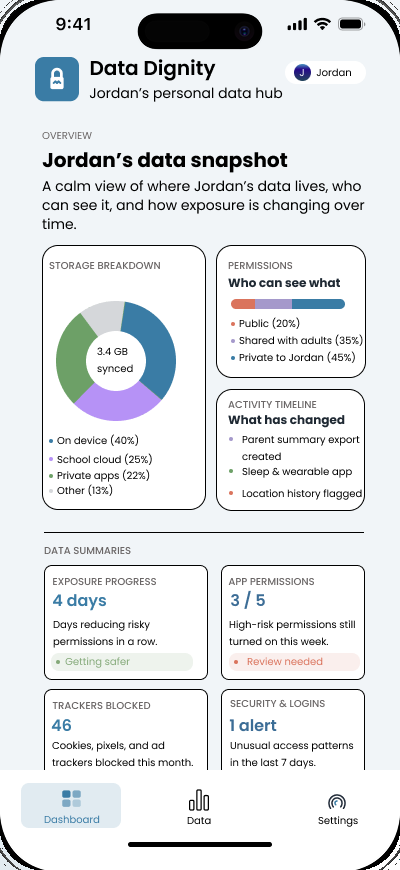
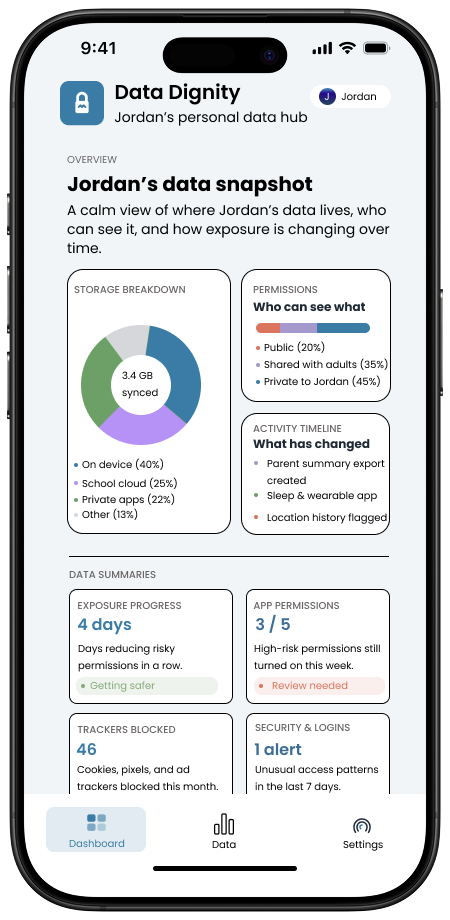
Revert "Tighten iPhone mockups and swap the Soak app-home frame."
This reverts commit 8bc4ba73c5c9cdd482dd8f3917aaf56f6dddfaf0.

diff --git a/docs/styles.css b/docs/styles.css
@@ -687,10 +687,6 @@ p:last-child {
   width: min(100% - 2rem, 22rem);
 }
 
-.figure.phone img {
-  border-radius: 2.35rem;
-}
-
 .figure.tall {
   width: min(100% - 2rem, 32rem);
 }
@@ -723,7 +719,7 @@ p:last-child {
 
 .figure-grid img {
   width: 100%;
-  border-radius: 1.75rem;
+  border-radius: var(--radius);
   border: 1px solid var(--line);
   background: var(--bg-2);
   box-shadow: var(--shadow);
